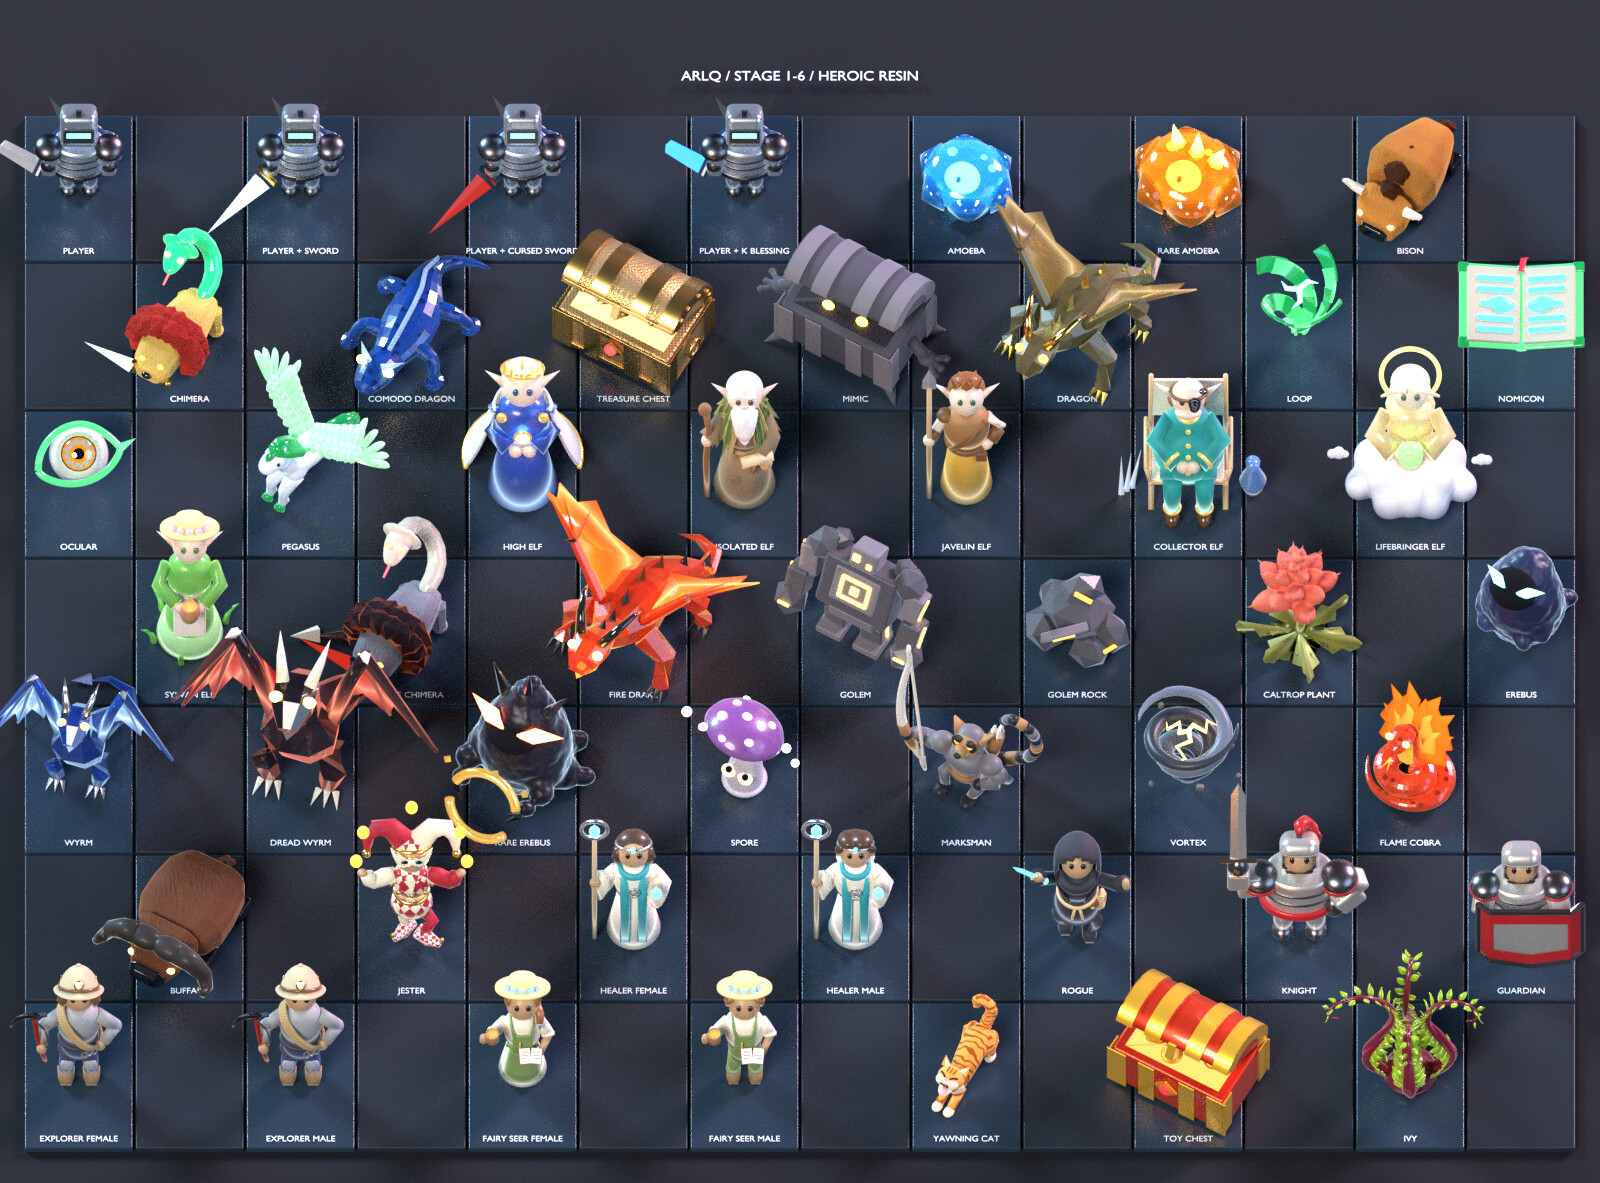
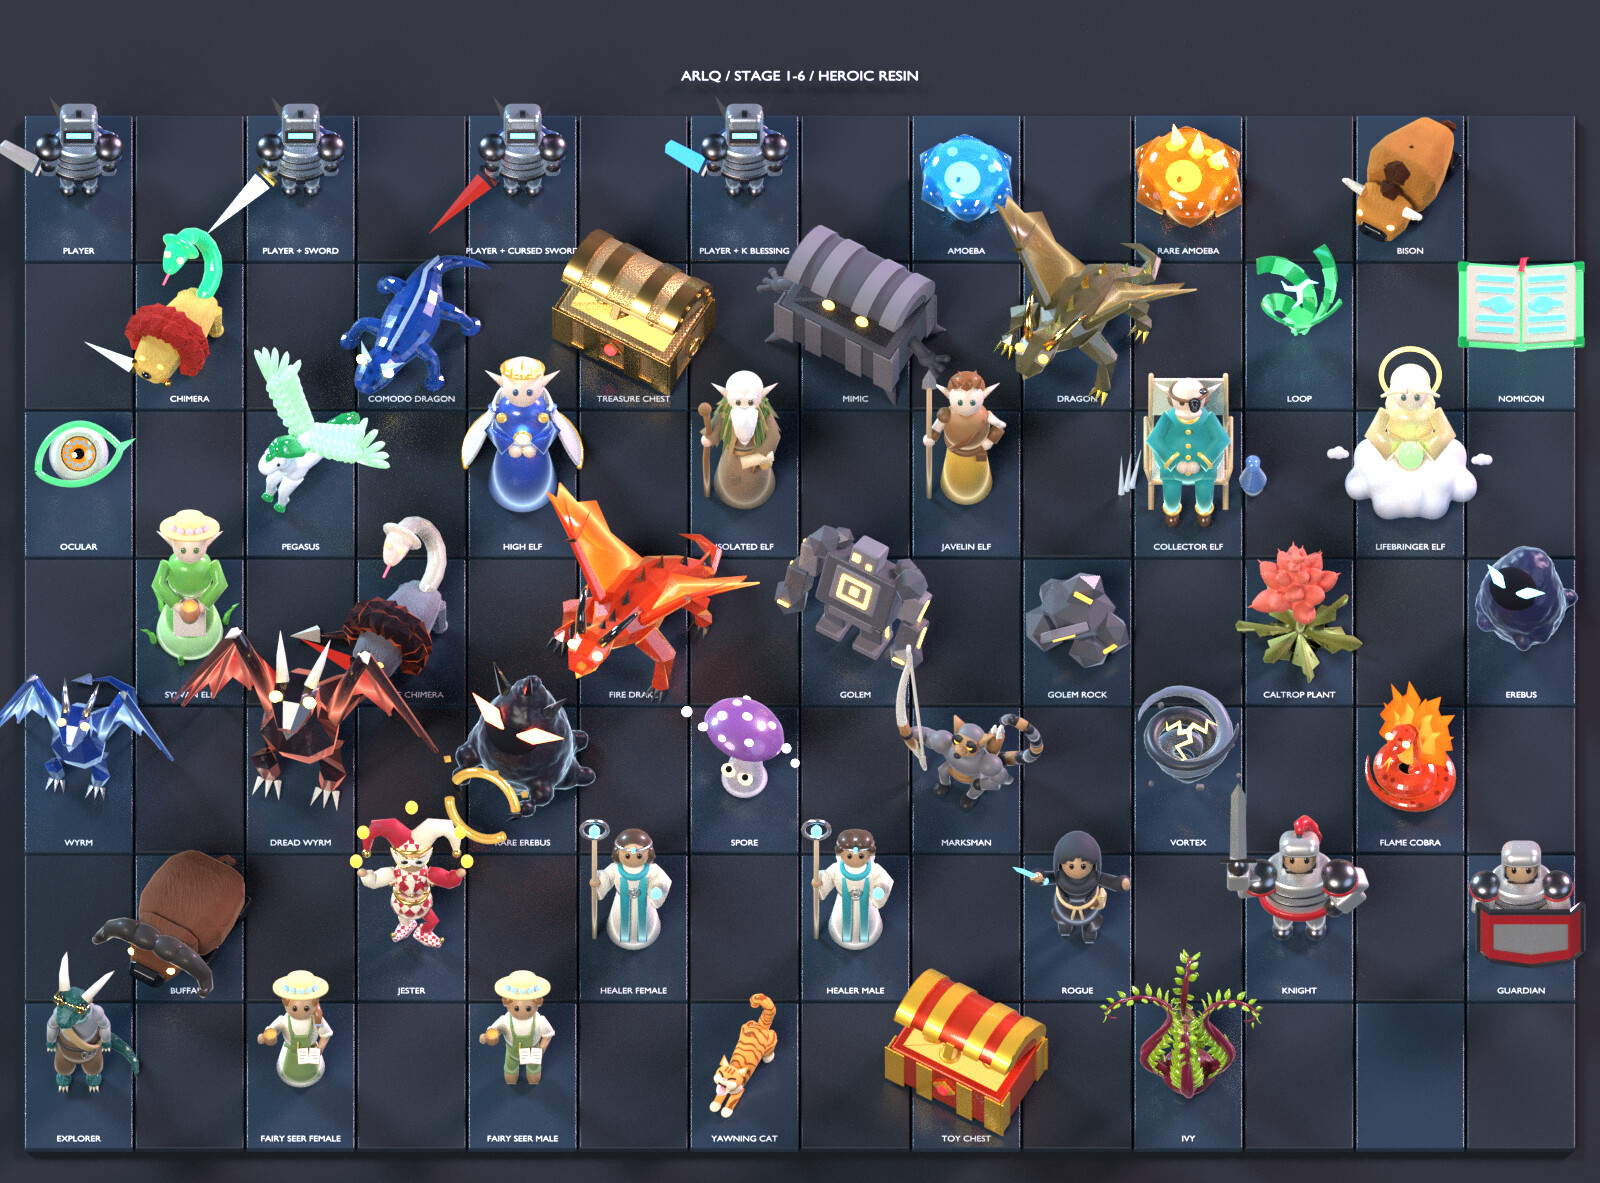
feat: draw the Dungeon Explorer as the dragon scholar
Switch the Dungeon Explorer's sprites to the dragon model: one build,
explorer-n, in three scale shades (blue-leaning, midway, green-leaning)
in place of the female and male sprites, which are removed. Update the
hover-name tests to the new sprite keys, and rebuild the member and
monster scenes and the group preview, where the single Explorer lets the
characters after it move up a slot.

diff --git a/tests/test_sprite_ui.py b/tests/test_sprite_ui.py
@@ -113,7 +113,7 @@ def test_hover_enlarges_sprite_with_fixed_feet_and_original_cell_hitbox(sprite_u
     ('player sword', 'Player'),
     ('k', 'Marksman(k)'),
     ('d', 'Komodo Dragon(d)'),
-    ('knight-n-l', 'Knight'), ('explorer-m-d', 'Dungeon Explorer'),
+    ('knight-n-l', 'Knight'), ('explorer-n-d', 'Dungeon Explorer'),
     ('seer-f-l', 'Fairy Seer'), ('seer-m-d', 'Fairy Seer'),
 ])
 def test_hover_names_preserve_identity_and_member_roles(sprite_ui, key, name):
@@ -146,7 +146,7 @@ def test_hover_name_is_below_only_at_dungeon_top(sprite_ui, row):
     ('d', 'コモドドラゴン(d)'),
     ('player blessed', 'プレイヤー(@)'), ('knight-n-l', '騎士(K)'),
     ('K', 'コレクターエルフ(K)'), ('D', 'ドラゴン(D)'),
-    ('explorer-m-d', 'ダンジョン探検家(D)'),
+    ('explorer-n-d', 'ダンジョン探検家(D)'),
 ])
 def test_japanese_hover_names_include_glyph(sprite_ui, monkeypatch, key, name):
     monkeypatch.setattr(i18n, '_lang', 'ja')

diff --git a/src/arlq/sprites/sprite_funcs.py b/src/arlq/sprites/sprite_funcs.py
@@ -136,10 +136,12 @@ UNKNOWN_PILLAR = 0.21
 # the blue disc of a beatable identified monster.
 UNKNOWN_DISC_REFERENCE = CI_BLUE
 # Member sprite files are named '<job>-<gender>-<skin>.png': gender f, m, or
-# n for a job drawn alike for both; skin l(ight), m(edium) or d(ark).
+# n for a job drawn alike for both; skin l(ight), m(edium) or d(ark). The
+# Dungeon Explorer, a dragon, has one build whose scales lean blue (l), sit
+# midway (m) or lean green (d).
 MEMBER_SPRITES = {'J': ('jester-n',), 'H': ('healer-f', 'healer-m'),
                   'R': ('rogue-n',), 'K': ('knight-n',),
-                  'G': ('guardian-n',), 'D': ('explorer-f', 'explorer-m'),
+                  'G': ('guardian-n',), 'D': ('explorer-n',),
                   'S': ('seer-f', 'seer-m')}
 CAT_SPRITE = 'yawning-cat'
 SPRITE_FILES[CAT_SPRITE] = 'yawning-cat.png'
